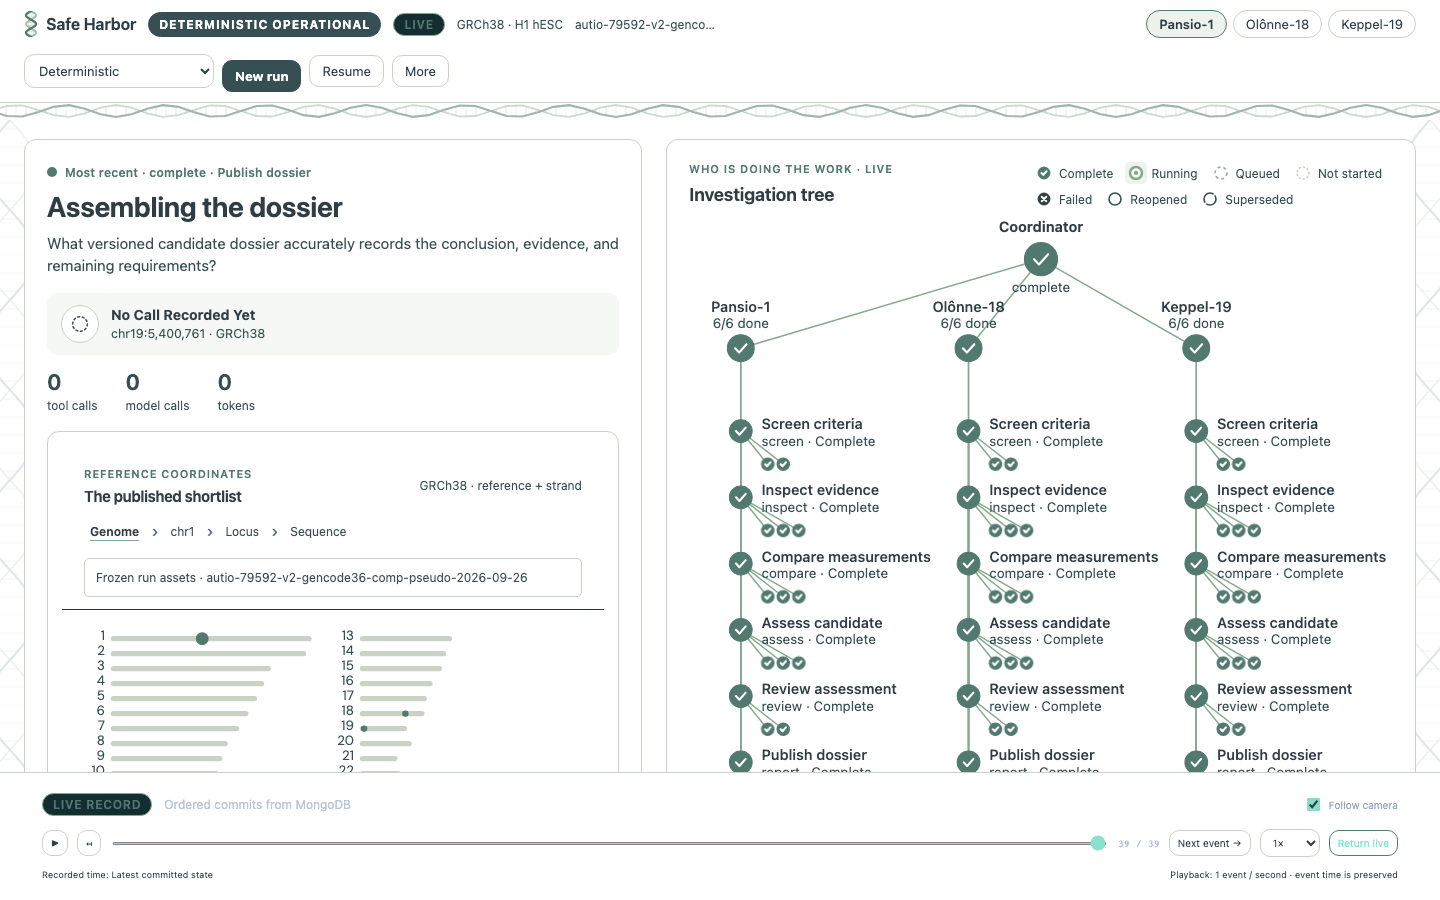
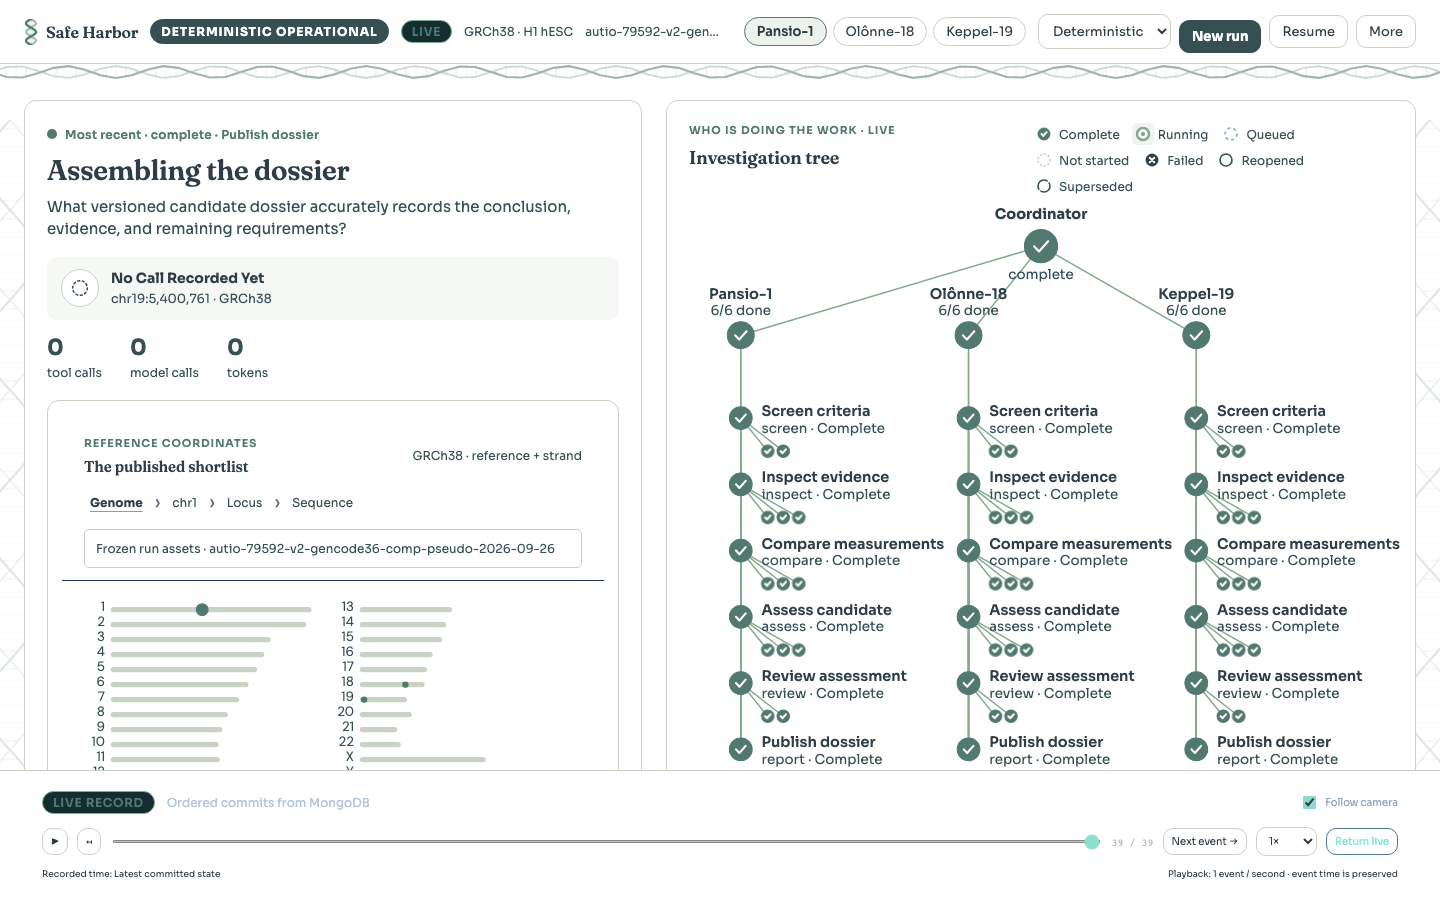
UI: Fraunces headlines and Sora body typography
Loaded from Google Fonts; namespaced --sage-display/--sage-body variables so
the legacy --font-display token cannot override them. Monospace kept for
sequences and code.

diff --git a/frontend/src/safe-harbor/sage.css b/frontend/src/safe-harbor/sage.css
@@ -1,7 +1,7 @@
 /* Split investigation layout. Sage-on-white theme chosen by the repository owner. Palette: #cad2c5 #84a98c #52796f #354f52 #2f3e46 + white / tints. */
-:root{--s1:#cad2c5;--s2:#84a98c;--s3:#52796f;--s4:#354f52;--s5:#2f3e46;--tint:#f6f8f5;--tint2:#eef2ec;--sage-surface:#fff;--sage-background:#fff;font-family:Inter,system-ui,-apple-system,'Segoe UI',sans-serif;color:var(--s5);background:var(--sage-surface)}
+:root{--sage-body:Sora,system-ui,-apple-system,'Segoe UI',sans-serif;--sage-display:Fraunces,Georgia,'Times New Roman',serif;--s1:#cad2c5;--s2:#84a98c;--s3:#52796f;--s4:#354f52;--s5:#2f3e46;--tint:#f6f8f5;--tint2:#eef2ec;--sage-surface:#fff;--sage-background:#fff;font-family:var(--sage-body);color:var(--s5);background:var(--sage-surface)}
 html,body{background:var(--sage-surface);color:var(--s5)}
-.sage-app{min-height:100vh;display:flex;flex-direction:column;background:var(--sage-surface);color:var(--s5);font-family:Inter,system-ui,-apple-system,'Segoe UI',sans-serif}
+.sage-app{min-height:100vh;display:flex;flex-direction:column;background:var(--sage-surface);color:var(--s5);font-family:var(--sage-body)}
 .sage-app h1,.sage-app h2,.sage-app h3{font-family:inherit;color:var(--s5);letter-spacing:-.01em}
 .sage-app .eyebrow{color:var(--s3);font-size:11px;letter-spacing:.08em;text-transform:uppercase;font-weight:600}
 .sage-app button,.sage-app .button{background:var(--sage-surface);color:var(--s5);border:1px solid var(--s1);border-radius:10px;padding:7px 12px;font-size:13px;box-shadow:none}
@@ -169,3 +169,8 @@ body,#root,.safe-harbor-app.sage-app{background:var(--sage-background)!important
 .sage-main{position:relative;z-index:1}
 @media (max-width:1100px){.helix-watermark{display:none}}
 @media (prefers-reduced-motion:reduce){.helix-drift{animation:none}}
+
+/* Typography: Fraunces for headlines, Sora for body text. */
+.sage-app,.sage-app button,.sage-app input,.sage-app select,.sage-app textarea{font-family:var(--sage-body)}
+.sage-app h1,.sage-app h2,.sage-app h3,.sage-app .brand span,.sage-app .panel-head h2,.now-head h1,.tree-panel h2,.sage-app .drawer-head h2,.sage-app .rail-heading h1{font-family:var(--sage-display);font-optical-sizing:auto;letter-spacing:-.01em;font-weight:600}
+.sage-app code,.sage-app pre,.sage-app .sequence-row code{font-family:ui-monospace,SFMono-Regular,Menlo,monospace}

diff --git a/frontend/index.html b/frontend/index.html
@@ -3,7 +3,10 @@
   <head>
     <meta charset="UTF-8" />
     <meta name="viewport" content="width=device-width, initial-scale=1.0" />
-    <meta name="theme-color" content="#10171b" />
+    <meta name="theme-color" content="#ffffff" />
+    <link rel="preconnect" href="https://fonts.googleapis.com" />
+    <link rel="preconnect" href="https://fonts.gstatic.com" crossorigin />
+    <link href="https://fonts.googleapis.com/css2?family=Fraunces:opsz,wght@9..144,400;9..144,500;9..144,600;9..144,700&family=Sora:wght@300;400;500;600;700&display=swap" rel="stylesheet" />
     <meta name="description" content="Safe Harbor — an inspectable workspace for scientific evidence." />
     <title>Safe Harbor · Evidence workspace</title>
   </head>
